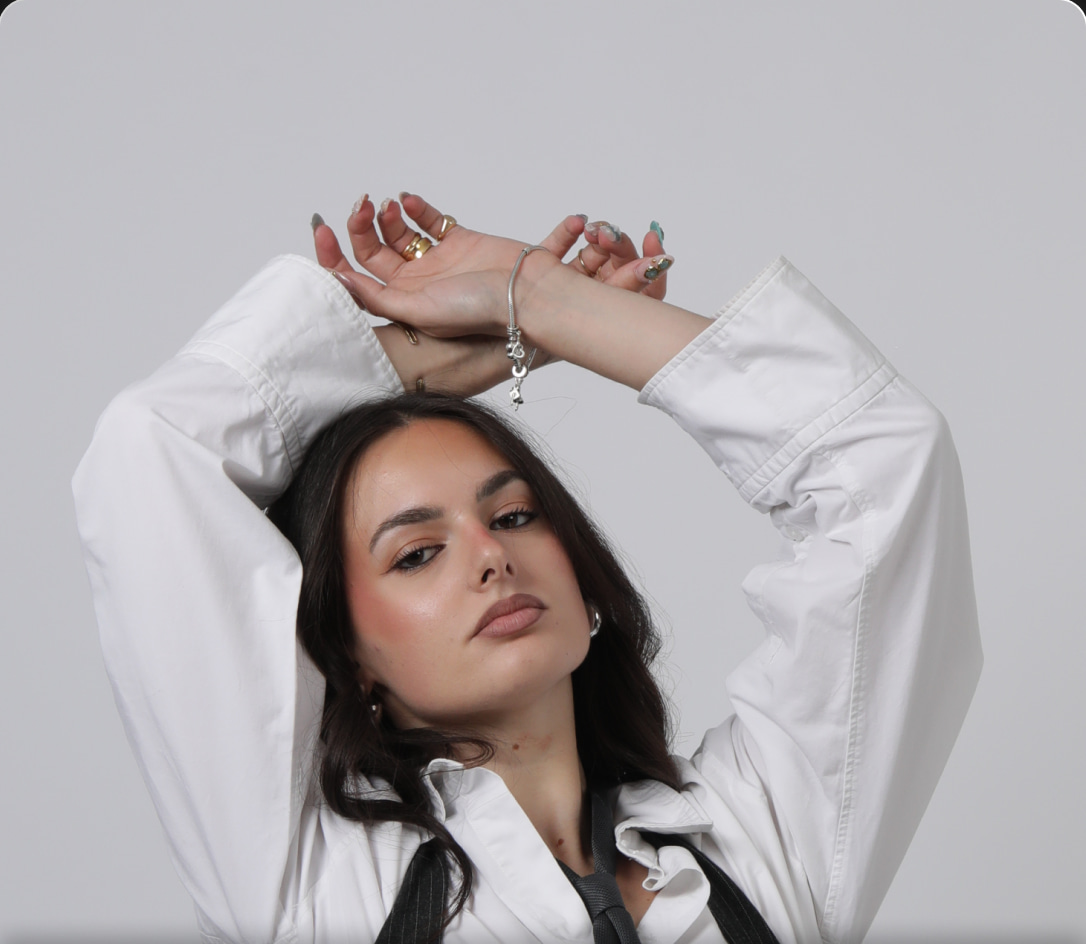
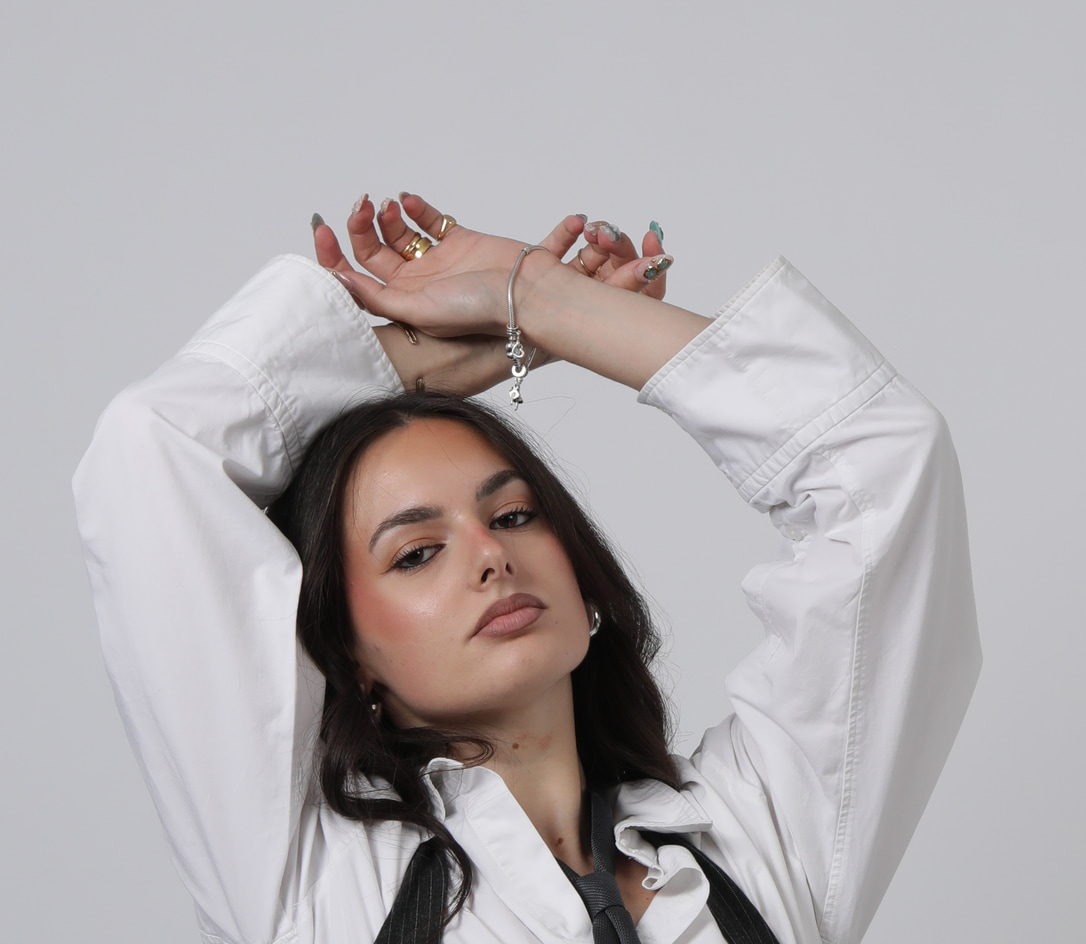
Portraits des profs tires des originaux du shooting
Les fichiers de public/images/profs venaient de l'export Figma. Les originaux
du shooting font 4480x6720 une fois l'orientation EXIF appliquee : le cadrage
paysage en 1086x944 n'a donc rien de mecanique.

Il n'a pas ete choisi a l'oeil. Les extractions portaient deja le cadrage de la
graphiste : on l'a retrouve dans la photo source par correlation croisee
normalisee, score 0.996, puis verifie a 1/255 d'ecart moyen entre le nouveau
crop et l'extraction. Rectangles consignes dans CLAUDE.md.

Encodage choisi sur mesure de nettete (variance du laplacien) et non au juge :
en qualite 88 le portrait de Lena passait SOUS l'ancienne extraction, sa
reduction etant de 4,1x contre 1,7x et 2,2x pour les autres. En qualite 94,
lanczos3 et chroma 4:4:4, les trois progressent : 41->43, 25->41, 72->126.

Seed rejoue, sans quoi le site aurait continue a servir les anciennes images
depuis Payload/UploadThing. Verifie au navigateur : les trois portraits se
chargent, aucune erreur console.

diff --git a/CLAUDE.md b/CLAUDE.md
@@ -129,6 +129,32 @@ destinataire simulé, pratique pour tester sans écrire à personne.
 réinsérer. À réserver au développement : il effacerait les saisies de la
 cliente.
 
+## Portraits des profs
+
+`public/images/profs/` contient les portraits tirés des originaux du shooting
+(`../BAPZ/content`), au format 1086 x 944 attendu par `TeacherCard`.
+
+Les originaux sont des prises de vue **verticales** de 4480 x 6720 une fois
+l'orientation EXIF appliquée ; le cadrage paysage n'a donc rien de mécanique.
+Il n'a pas été choisi à l'œil : les fichiers d'origine venaient de l'export
+Figma et portaient donc le cadrage de la graphiste, qu'on a retrouvé dans la
+photo source par corrélation croisée normalisée (score 0.996, écart moyen
+1/255 avec l'extraction). Rectangles retenus, en pixels de l'image redressée :
+
+| Prof | Source | Rectangle |
+|---|---|---|
+| Léna | `Lena.JPG` | 4480 x 3894 à (0, 919) |
+| Lara | `Lara.JPG` | 1800 x 1565 à (1225, 1356) |
+| Alessia | `Alessia.jpeg` | 2400 x 2086 à (1041, 1243) |
+
+Encodage : `lanczos3`, JPEG qualité 94, `chromaSubsampling: "4:4:4"`. Réglage
+choisi sur mesure de netteté (variance du laplacien) : en qualité 88 le
+portrait de Léna passait *sous* l'ancienne extraction, sa réduction étant de
+4,1x contre 1,7x et 2,2x pour les autres.
+
+**Après tout changement de ces fichiers, relancer `pnpm seed`** : le site sert
+les portraits depuis Payload/UploadThing, pas depuis `public/`.
+
 ## Contenu
 
 `content/` contient les notes reçues de la cliente et le logo vectoriel. Les
@@ -154,11 +180,7 @@ entre dans ce cadre et n'est donc plus un point ouvert.
 - Planning du calendrier : la maquette et les horaires transmis ne coïncident
   pas sur tous les cours. Détail dans `content/cours.md`. Il s'agit d'un
   conflit entre deux sources, pas d'un manque : à trancher avec elle.
-- Portraits des profs : ceux de `public/images/profs/` viennent de l'export
-  Figma. Les originaux du shooting sont dans `../BAPZ/content`
-  (`Alessia.jpeg`, `Lara.JPG`, `Lena.JPG` — les variantes `lena_s` / `lena_v`
-  sont écartées), à recadrer en 1086 x 944. Ce sont des prises de vue
-  verticales : le cadrage paysage n'est pas mécanique, il se décide sur la
-  maquette.
+- Page par prof : elle n'existe pas, d'où le lien `Profs → /cours`, la plus
+  faible destination du site.
 - Statut légal et SIRET manquants pour les mentions légales.
 - « Cours privés » : poste du devis absent de toutes les maquettes reçues.

diff --git a/README.md b/README.md
@@ -114,7 +114,7 @@ Le style vient de Tailwind 4, chargé par `@import "tailwindcss"` en tête de
 |---|---|
 | Accueil | Conforme à la maquette |
 | Calendrier (`/cours`) | Conforme à la maquette, planning à confirmer |
-| Profs | Conforme à la maquette (portraits extraits de l'export, à remplacer par les originaux) |
+| Profs | Conforme à la maquette, portraits tirés des originaux du shooting |
 | Tarifs | Tarifs de la cliente, structure adaptée (4 abonnements au lieu d'un seul) |
 | Location | Salles A et B renseignées |
 | Contact | Formulaire branché, horaires à fournir |
@@ -138,7 +138,7 @@ entre dans ce cadre.
 - **Planning du calendrier** : la maquette et les horaires transmis ne
   coïncident pas sur tous les cours (Street Enfants mardi ou jeudi ?). C'est un
   conflit entre deux sources, pas un manque. Détail dans `content/cours.md`.
-- **Portraits des profs** : les originaux du shooting sont disponibles, il
-  reste à les recadrer en 1086 x 944. Photo retenue pour Léna : `Lena.JPG`.
+- **Page par prof** : elle n'existe pas, d'où le lien `Profs → /cours`, la
+  destination la plus faible du site.
 - **Statut légal et SIRET**, pour les mentions légales.
 - **Cours privés** : poste du devis qui n'apparaît sur aucune maquette reçue.
